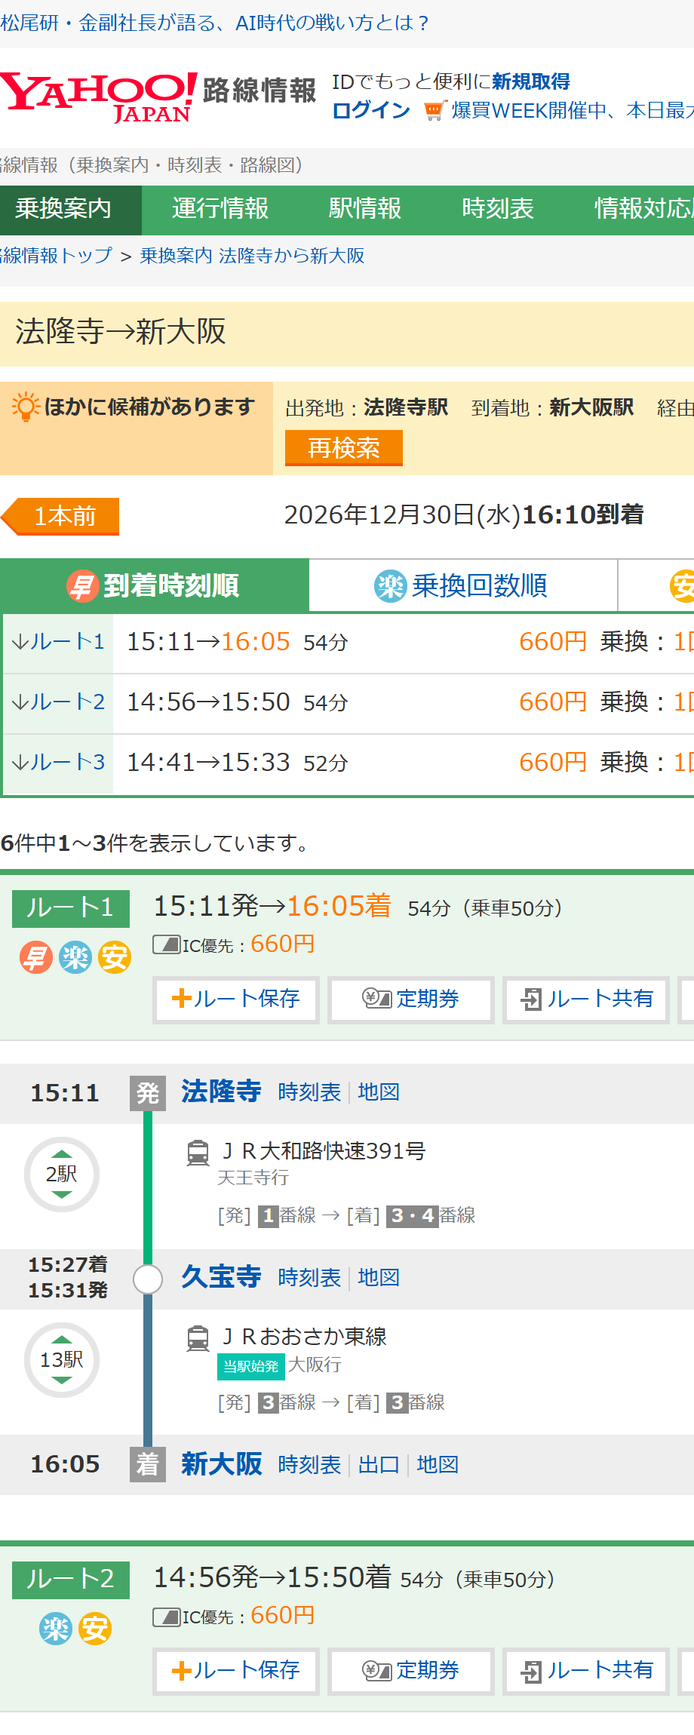
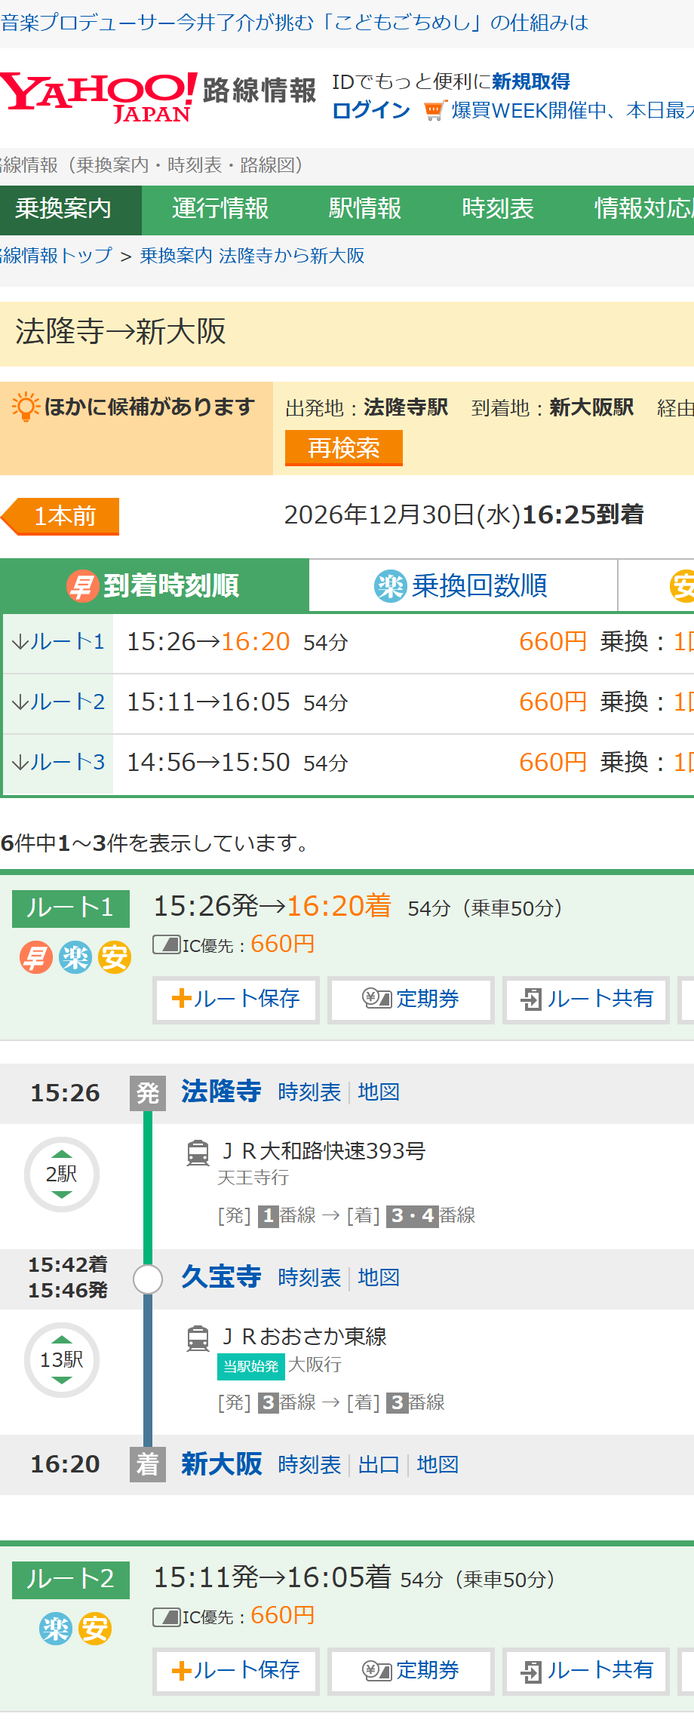
fix: 法隆寺15:26発➡新大阪16:20着に変更、予備/1本後表記とEX予約＋Suica案内を削除、キャッシュ防止追加

diff --git a/nara.html b/nara.html
@@ -3,6 +3,9 @@
 <head>
   <meta charset="UTF-8">
   <meta name="viewport" content="width=device-width, initial-scale=1.0, maximum-scale=1.0, user-scalable=no">
+  <meta http-equiv="Cache-Control" content="no-cache, no-store, must-revalidate">
+  <meta http-equiv="Pragma" content="no-cache">
+  <meta http-equiv="Expires" content="0">
   <title>京都・奈良 年末家族旅行 旅のしおり 2026</title>
   <style>
     :root {
@@ -281,24 +284,6 @@
     </a>
   </div>
 
-  <!-- 交通・きっぷ案内カード（EX予約＋Suica対応） -->
-  <div class="sec-card" style="background:#f0fdf4; border-color:#86efac;">
-    <div class="sec-header">
-      <h2 class="sec-title" style="color:#15803d;">📱 いつもの「EX予約 ＋ Suica」でOK！</h2>
-      <span class="sec-badge badge-green">交通案内</span>
-    </div>
-    <div style="font-size:12px; color:#14532d; line-height:1.6;">
-      難しい紙の切符は不要！普段お使いの**EX予約アプリ＋モバイルSuica/ICカード**だけで全て移動できます。<br><br>
-      ① <strong>新横浜 ➡ 京都：</strong> EX予約で新幹線指定席を購入 ➡ Suicaでピッと改札通過<br>
-      ② <strong>京都 ➡ 奈良 ➡ 法隆寺 ➡ 新大阪：</strong> 関西の在来線は全区間Suicaタッチで乗るだけ！<br>
-      ③ <strong>新大阪 ➡ 岡山：</strong> EX予約で山陽新幹線を購入 ➡ Suicaでピッと改札通過<br>
-      ④ <strong>岡山 ➡ 早島：</strong> JR瀬戸大橋線もSuicaタッチで乗車OK！<br>
-      <small style="color:#166534; display:block; margin-top:6px; background:#dcfce7; padding:6px 8px; border-radius:6px;">
-        💡 以前言っていた「通し乗車券ハック」は紙の切符でみどりの窓口に並ぶ必要があり手間がかかるため、<strong>いつものEX予約＋Suica利用が圧倒的に快適で便利</strong>です。
-      </small>
-    </div>
-  </div>
-
   <!-- 1日目タイムスケジュール -->
   <div class="sec-card">
     <div class="sec-header">
@@ -307,26 +292,21 @@
     </div>
 
     <div class="timeline-step">
-      <div class="step-time">07:45発（または07:49発）➡ 08:11〜08:18着</div>
-      <div class="step-title">東戸塚駅 ➡ 横浜駅 ➡ 新横浜駅（余裕たっぷりA案）</div>
+      <div class="step-time">07:45発 ➡ 08:11着</div>
+      <div class="step-title">東戸塚駅 ➡ 横浜駅 ➡ 新横浜駅</div>
       <div class="step-desc">
-        <strong>【平日ダイヤ（12/29標準）】</strong><br>
-        ・<strong>東戸塚 07:45発</strong>（JR横須賀線・千葉行）➡ <strong>横浜 07:53着</strong><br>
-        　↳ <strong>横浜 07:59発</strong>（JR横浜線直通・八王子行）➡ <strong>新横浜 08:11着</strong>（JR構内乗換6分・IC 341円）<br>
-        　↳ または <strong>横浜 08:02発</strong>（地下鉄ブルーライン・あざみ野行）➡ <strong>新横浜 08:14着</strong>（IC 451円）<br>
-        ・（1本後）<strong>東戸塚 07:49発</strong>（JR横須賀線・千葉行）➡ <strong>横浜 07:58着 / 08:07発</strong>（ブルーライン）➡ <strong>新横浜 08:18着</strong><br>
-        <small style="color:var(--muted);">※万が一12/29が土休日ダイヤ扱いの場合：東戸塚 07:40発 ➡ 横浜 07:48着 / 07:58発（ブルーライン）➡ 新横浜 08:10着（または東戸塚 07:50発 ➡ 横浜 07:58着 / 08:06発 ➡ 新横浜 08:17着）</small><br>
-        <a href="https://transit.yahoo.co.jp/search/result?from=%E6%9D%B1%E6%88%B8%E5%A1%9A&to=%E6%96%B0%E6%A8%AA%E6%B5%9C&y=2026&m=12&d=29&hh=08&m1=2&m2=5&type=4&ticket=ic&al=0&shin=0&ex=0&hb=0&lb=0&sr=0" target="_blank" class="step-link">🔗 Yahoo!乗換案内で時刻を確認</a>
+        ・<strong>東戸塚 07:45発</strong>（1番線：JR横須賀線・千葉行）➡ <strong>横浜 07:53着</strong>（10番線）<br>
+        ・<strong>横浜 07:59発</strong>（4番線：JR横浜線直通・八王子行）➡ <strong>新横浜 08:11着</strong>（6番線・IC 341円）<br>
+        <a href="https://transit.yahoo.co.jp/search/result?from=%E6%9D%B1%E6%88%B8%E5%A1%9A&to=%E6%96%B0%E6%A8%AA%E6%B5%9C&y=2026&m=12&d=29&hh=08&m1=1&m2=5&type=4&ticket=ic&al=0&shin=0&ex=0&hb=0&lb=0&sr=0" target="_blank" class="step-link">🔗 Yahoo!乗換案内（東戸塚➡新横浜）</a>
       </div>
     </div>
 
     <div class="timeline-step">
       <div class="step-time">08:43発 ➡ 10:39着（予約済）</div>
-      <div class="step-title">東海道新幹線 のぞみ333号（新横浜 ➡ 京都・EX予約）</div>
+      <div class="step-title">東海道新幹線 のぞみ333号（新横浜 ➡ 京都）</div>
       <div class="step-desc">
-        新横浜駅で朝ごはんを買って余裕を持って乗車（所要1時間56分）。<br>
-        京都駅10:39着後、八条口または中央口のコインロッカーにスーツケースを預けて身軽に行動！<br>
-        <small style="color:var(--muted);">※EX予約（1年前予約済）：座席番号は乗車1ヶ月前（11/29 8:00以降）に確定メール通知</small>
+        新横浜駅で朝ごはんを買って乗車（所要1時間56分）。<br>
+        京都駅10:39着後、八条口または中央口のコインロッカーにスーツケースを預けて身軽に行動！
       </div>
     </div>
 
@@ -357,8 +337,7 @@
       <div class="step-title">JR奈良線 みやこ路快速619号（京都 ➡ 奈良 直通）</div>
       <div class="step-desc">
         ・<strong>京都 13:34発</strong>（JRみやこ路快速619号・奈良行）➡ <strong>JR奈良 14:21着</strong>（所要47分・乗換0回・IC 720円）<br>
-        <small style="color:var(--muted);">※ランチをゆっくりとる場合は30分後の「京都 14:04発 ➡ JR奈良 14:51着」でもOK（昼間は平日・土休日同一ダイヤで毎時04分・34分発）</small><br>
-        <a href="https://transit.yahoo.co.jp/search/result?from=%E4%BA%AC%E9%83%BD&to=%E5%A5%88%E8%89%AF&y=2026&m=12&d=29&hh=13&m1=1&m2=5&type=1&ticket=ic&al=0&shin=0&ex=0&hb=0&lb=0&sr=0" target="_blank" class="step-link">🔗 Yahoo!乗換案内で時刻を確認</a>
+        <a href="https://transit.yahoo.co.jp/search/result?from=%E4%BA%AC%E9%83%BD&to=%E5%A5%88%E8%89%AF&y=2026&m=12&d=29&hh=13&m1=1&m2=5&type=1&ticket=ic&al=0&shin=0&ex=0&hb=0&lb=0&sr=0" target="_blank" class="step-link">🔗 Yahoo!乗換案内（京都➡奈良）</a>
       </div>
     </div>
 
@@ -424,11 +403,10 @@
     </div>
 
     <div class="timeline-step purple">
-      <div class="step-time" style="color:var(--purple);">11:45発（または12:00発）➡ 15:00 ⭐ 世界最古の木造建築 ＆ ポケふた</div>
+      <div class="step-time" style="color:var(--purple);">11:45発 ➡ 15:15 ⭐ 世界最古の木造建築 ＆ ポケふた</div>
       <div class="step-title">JR奈良駅 ➡ 法隆寺駅 ➡ ポケふた5枚 ➡ 世界遺産 法隆寺</div>
       <div class="step-desc">
         ・<strong>JR奈良 11:45発</strong>（JR大和路快速365号・天王寺行）➡ <strong>法隆寺 11:56着</strong>（所要11分・IC 240円）<br>
-        　<small style="color:var(--muted);">※15分間隔で運行（12:00発 ➡ 12:11着 / 12:15発 ➡ 12:26着）</small><br>
         ・法隆寺駅ロッカーに荷物を預ける。<br>
         ・**奈良県唯一のポケふた全5枚**は、法隆寺駅〜法隆寺の参道沿い（約1.5km）に一直線に並んでいます！ドータクン、シキジカ、エンテイなどのマンホールを探しながら散策。<br>
         ・聖徳太子ゆかりの**世界最古の木造建築・法隆寺（五重塔・金堂・大宝蔵院・百済観音）**を見学（冬は16:30閉門）。<br>
@@ -439,14 +417,12 @@
     </div>
 
     <div class="timeline-step">
-      <div class="step-time">15:11発 ➡ 16:05新大阪着 / 16:41発 ➡ 17:25岡山着（予約済）</div>
-      <div class="step-title">法隆寺 ➡ 久宝寺 ➡ 新大阪 ➡ のぞみ39号で岡山へ（余裕A案）</div>
+      <div class="step-time">15:26発 ➡ 16:20新大阪着 / 16:41発 ➡ 17:25岡山着（予約済）</div>
+      <div class="step-title">法隆寺 ➡ 久宝寺 ➡ 新大阪 ➡ のぞみ39号で岡山へ</div>
       <div class="step-desc">
-        ・<strong>法隆寺 15:11発</strong>（JR大和路快速391号・天王寺行）➡ <strong>久宝寺 15:27着</strong><br>
-        ・<strong>久宝寺 15:31発</strong>（向かい側ホーム対面乗換4分：JRおおさか東線・大阪行）➡ <strong>新大阪 16:05着</strong>（IC 660円）<br>
-        　<small style="color:var(--muted);">※1本後のB案：法隆寺 15:26発 ➡ 久宝寺 15:42着/15:46発 ➡ 新大阪 16:20着</small><br>
-        ・新大阪駅でお土産購入・トイレ休憩（36分余裕）<br>
-        ・<strong>新大阪 16:41発</strong>（山陽新幹線 <strong>のぞみ39号</strong>・EX予約済）➡ <strong>岡山 17:25着</strong>（所要44分）<br>
+        ・<strong>法隆寺 15:26発</strong>（1番線：JR大和路快速393号・天王寺行）➡ <strong>久宝寺 15:42着</strong>（3・4番線）<br>
+        ・<strong>久宝寺 15:46発</strong>（3番線・当駅始発：JRおおさか東線・大阪行）➡ <strong>新大阪 16:20着</strong>（3番線・IC 660円）<br>
+        ・<strong>新大阪 16:41発</strong>（山陽新幹線 <strong>のぞみ39号</strong>・予約済）➡ <strong>岡山 17:25着</strong>（所要44分）<br>
         <a href="https://transit.yahoo.co.jp/search/result?from=%E6%B3%95%E9%9A%86%E5%AF%BA&to=%E6%96%B0%E5%A4%A7%E9%98%AA&y=2026&m=12&d=30&hh=16&m1=2&m2=5&type=4&ticket=ic&al=0&shin=0&ex=0&hb=0&lb=0&sr=0&via=%E4%B9%85%E5%AE%9D%E5%AF%BA" target="_blank" class="step-link">🔗 Yahoo!乗換案内（法隆寺➡新大阪）</a>
       </div>
     </div>
@@ -455,38 +431,36 @@
       <div class="step-time" style="color:var(--green);">17:42発 ➡ 17:52早島着 🎉</div>
       <div class="step-title">岡山駅 ➡ 早島のご実家に無事到着！</div>
       <div class="step-desc">
-        ・<strong>岡山 17:42発</strong>（JR快速マリンライナー51号・高松行・8番のりば）➡ <strong>早島 17:52着</strong>（所要10分・IC 240円）<br>
-        ・（3分後の普通列車）<strong>岡山 17:45発</strong>（JR瀬戸大橋線・児島行）➡ <strong>早島 18:02着</strong>（所要17分）<br>
-        ・（予備）<strong>岡山 18:15発</strong>（JR宇野みなと線・宇野行）➡ <strong>早島 18:32着</strong><br>
+        ・<strong>岡山 17:42発</strong>（8番線：JR快速マリンライナー51号・高松行）➡ <strong>早島 17:52着</strong>（所要10分・IC 240円）<br>
         <a href="https://transit.yahoo.co.jp/search/result?from=%E5%B2%A1%E5%B1%B1&to=%E6%97%A9%E5%B3%B6&y=2026&m=12&d=30&hh=17&m1=3&m2=5&type=1&ticket=ic&al=0&shin=0&ex=0&hb=0&lb=0&sr=0" target="_blank" class="step-link">🔗 Yahoo!乗換案内（岡山➡早島）</a>
       </div>
     </div>
 
     <!-- 時刻表スクリーンショット証跡（折りたたみ） -->
-    <details style="margin-top:12px; background:#f8fafc; border:1.5px solid #cbd5e1; border-radius:12px; padding:10px;">
-      <summary style="font-size:12.5px; font-weight:800; color:#0f172a; cursor:pointer;">
+    <details style="margin-top:12px; background:#eff6ff; border:2px solid #0284c7; border-radius:12px; padding:12px;">
+      <summary style="font-size:13px; font-weight:800; color:#0369a1; cursor:pointer;">
         📸 Yahoo!乗換案内 スクリーンショット証跡を見る（全5区間・番線付き）
       </summary>
       <div style="margin-top:10px; display:flex; flex-direction:column; gap:12px;">
         <div>
           <div style="font-size:11.5px; font-weight:800; color:#0369a1; margin-bottom:4px;">① 12/29 東戸塚 07:45発 ➡ 新横浜 08:11着（1番線➡10番線 / 4番線➡6番線）</div>
-          <img src="https://monolith-sys.github.io/izu-trip-2026/nara2026/proofs/proof_1_higashitotsuka_shinyokohama.png" alt="東戸塚から新横浜" style="width:100%; border-radius:8px; border:1px solid #cbd5e1;">
+          <img src="https://monolith-sys.github.io/izu-trip-2026/nara2026/proofs/proof_1_higashitotsuka_shinyokohama.png?v=2" alt="東戸塚から新横浜" style="width:100%; border-radius:8px; border:1px solid #cbd5e1;">
         </div>
         <div>
           <div style="font-size:11.5px; font-weight:800; color:#0369a1; margin-bottom:4px;">② 12/29 京都 13:34発 ➡ 奈良 14:21着（みやこ路快速619号）</div>
-          <img src="https://monolith-sys.github.io/izu-trip-2026/nara2026/proofs/proof_2_kyoto_nara.png" alt="京都から奈良" style="width:100%; border-radius:8px; border:1px solid #cbd5e1;">
+          <img src="https://monolith-sys.github.io/izu-trip-2026/nara2026/proofs/proof_2_kyoto_nara.png?v=2" alt="京都から奈良" style="width:100%; border-radius:8px; border:1px solid #cbd5e1;">
         </div>
         <div>
           <div style="font-size:11.5px; font-weight:800; color:#0369a1; margin-bottom:4px;">③ 12/30 奈良 11:45発 ➡ 法隆寺 11:56着（大和路快速365号）</div>
-          <img src="https://monolith-sys.github.io/izu-trip-2026/nara2026/proofs/proof_3_nara_horyuji.png" alt="奈良から法隆寺" style="width:100%; border-radius:8px; border:1px solid #cbd5e1;">
+          <img src="https://monolith-sys.github.io/izu-trip-2026/nara2026/proofs/proof_3_nara_horyuji.png?v=2" alt="奈良から法隆寺" style="width:100%; border-radius:8px; border:1px solid #cbd5e1;">
         </div>
         <div>
-          <div style="font-size:11.5px; font-weight:800; color:#0369a1; margin-bottom:4px;">④ 12/30 法隆寺 15:11発 ➡ 久宝寺 15:27着/15:31発 ➡ 新大阪 16:05着</div>
-          <img src="https://monolith-sys.github.io/izu-trip-2026/nara2026/proofs/proof_4_horyuji_shinosaka.png" alt="法隆寺から新大阪" style="width:100%; border-radius:8px; border:1px solid #cbd5e1;">
+          <div style="font-size:11.5px; font-weight:800; color:#0369a1; margin-bottom:4px;">④ 12/30 法隆寺 15:26発 ➡ 久宝寺 15:42着/15:46発 ➡ 新大阪 16:20着</div>
+          <img src="https://monolith-sys.github.io/izu-trip-2026/nara2026/proofs/proof_4_horyuji_shinosaka.png?v=2" alt="法隆寺から新大阪" style="width:100%; border-radius:8px; border:1px solid #cbd5e1;">
         </div>
         <div>
           <div style="font-size:11.5px; font-weight:800; color:#0369a1; margin-bottom:4px;">⑤ 12/30 岡山 17:42発 ➡ 早島 17:52着（マリンライナー51号）</div>
-          <img src="https://monolith-sys.github.io/izu-trip-2026/nara2026/proofs/proof_5_okayama_hayashima.png" alt="岡山から早島" style="width:100%; border-radius:8px; border:1px solid #cbd5e1;">
+          <img src="https://monolith-sys.github.io/izu-trip-2026/nara2026/proofs/proof_5_okayama_hayashima.png?v=2" alt="岡山から早島" style="width:100%; border-radius:8px; border:1px solid #cbd5e1;">
         </div>
       </div>
     </details>
@@ -668,8 +642,7 @@ ${pageUrl}
 
 🚆【1日目 12/29(火)】
 ・東戸塚 07:45発(横須賀線) ➡ 横浜 07:53着/07:59発(JR横浜線直通) ➡ 新横浜 08:11着
-　(※ブルーライン利用なら 東戸塚07:49発 ➡ 横浜07:58着/08:07発 ➡ 新横浜08:18着)
-・新横浜 08:43発 ➡ 京都 10:39着（のぞみ333号・EX予約済）
+・新横浜 08:43発 ➡ 京都 10:39着（のぞみ333号・予約済）
 ・京都駅ロッカーに荷物を預けて西本願寺へ
 ・11:30〜12:00 西本願寺お坊さん無料境内ガイドツアー「お西さんを知ろう！」第2回参加
 ・東本願寺の前を通りつつ京都駅へ戻ってランチ＆荷物受取
@@ -681,15 +654,12 @@ ${pageUrl}
 🦌【2日目 12/30(水)】
 ・07:00〜 ホテル名物の海鮮丼朝食バイキング
 ・08:00〜09:30 東大寺 大仏殿 ＆ 二月堂（冬期8時開門！朝一番で大仏さま参拝＆高台の舞台から大仏殿を一望！）
-・ならまち散策・早めランチ ➡ ホテルで荷物ピックアップ
-・JR奈良 11:45発（JR大和路快速365号）➡ 法隆寺 11:56着（または12:00発➡12:11着）
+・ならまち散策・お土産選び＆早めランチ ➡ ホテルで荷物ピックアップ
+・JR奈良 11:45発（JR大和路快速365号）➡ 法隆寺 11:56着
 ・ポケふた全5枚を探しながら参道散策 ＆ 世界最古の木造建築・法隆寺（聖徳太子・五重塔）見学！
-・法隆寺 15:11発（大和路快速391号）➡ 久宝寺 15:27着/15:31発（おおさか東線）➡ 新大阪 16:05着
-・新大阪 16:41発 ➡ 岡山 17:25着（のぞみ39号・EX予約済）
-・岡山 17:42発（快速マリンライナー51号）➡ 早島 17:52着（普通列車なら17:45発➡18:02着）
-
-🚆【きっぷ・移動】
-新幹線はEX予約済＋在来線（横浜・京都・奈良・大阪・岡山）はすべてSuicaタッチでOK！`;
+・法隆寺 15:26発（大和路快速393号）➡ 久宝寺 15:42着/15:46発（おおさか東線）➡ 新大阪 16:20着
+・新大阪 16:41発 ➡ 岡山 17:25着（のぞみ39号・予約済）
+・岡山 17:42発（快速マリンライナー51号）➡ 早島 17:52着`;
     }
 
     function shareToLine() {

diff --git a/nara2026/index.html b/nara2026/index.html
@@ -3,6 +3,9 @@
 <head>
   <meta charset="UTF-8">
   <meta name="viewport" content="width=device-width, initial-scale=1.0, maximum-scale=1.0, user-scalable=no">
+  <meta http-equiv="Cache-Control" content="no-cache, no-store, must-revalidate">
+  <meta http-equiv="Pragma" content="no-cache">
+  <meta http-equiv="Expires" content="0">
   <title>京都・奈良 年末家族旅行 旅のしおり 2026</title>
   <style>
     :root {
@@ -281,24 +284,6 @@
     </a>
   </div>
 
-  <!-- 交通・きっぷ案内カード（EX予約＋Suica対応） -->
-  <div class="sec-card" style="background:#f0fdf4; border-color:#86efac;">
-    <div class="sec-header">
-      <h2 class="sec-title" style="color:#15803d;">📱 いつもの「EX予約 ＋ Suica」でOK！</h2>
-      <span class="sec-badge badge-green">交通案内</span>
-    </div>
-    <div style="font-size:12px; color:#14532d; line-height:1.6;">
-      難しい紙の切符は不要！普段お使いの**EX予約アプリ＋モバイルSuica/ICカード**だけで全て移動できます。<br><br>
-      ① <strong>新横浜 ➡ 京都：</strong> EX予約で新幹線指定席を購入 ➡ Suicaでピッと改札通過<br>
-      ② <strong>京都 ➡ 奈良 ➡ 法隆寺 ➡ 新大阪：</strong> 関西の在来線は全区間Suicaタッチで乗るだけ！<br>
-      ③ <strong>新大阪 ➡ 岡山：</strong> EX予約で山陽新幹線を購入 ➡ Suicaでピッと改札通過<br>
-      ④ <strong>岡山 ➡ 早島：</strong> JR瀬戸大橋線もSuicaタッチで乗車OK！<br>
-      <small style="color:#166534; display:block; margin-top:6px; background:#dcfce7; padding:6px 8px; border-radius:6px;">
-        💡 以前言っていた「通し乗車券ハック」は紙の切符でみどりの窓口に並ぶ必要があり手間がかかるため、<strong>いつものEX予約＋Suica利用が圧倒的に快適で便利</strong>です。
-      </small>
-    </div>
-  </div>
-
   <!-- 1日目タイムスケジュール -->
   <div class="sec-card">
     <div class="sec-header">
@@ -307,26 +292,21 @@
     </div>
 
     <div class="timeline-step">
-      <div class="step-time">07:45発（または07:49発）➡ 08:11〜08:18着</div>
-      <div class="step-title">東戸塚駅 ➡ 横浜駅 ➡ 新横浜駅（余裕たっぷりA案）</div>
+      <div class="step-time">07:45発 ➡ 08:11着</div>
+      <div class="step-title">東戸塚駅 ➡ 横浜駅 ➡ 新横浜駅</div>
       <div class="step-desc">
-        <strong>【平日ダイヤ（12/29標準）】</strong><br>
-        ・<strong>東戸塚 07:45発</strong>（JR横須賀線・千葉行）➡ <strong>横浜 07:53着</strong><br>
-        　↳ <strong>横浜 07:59発</strong>（JR横浜線直通・八王子行）➡ <strong>新横浜 08:11着</strong>（JR構内乗換6分・IC 341円）<br>
-        　↳ または <strong>横浜 08:02発</strong>（地下鉄ブルーライン・あざみ野行）➡ <strong>新横浜 08:14着</strong>（IC 451円）<br>
-        ・（1本後）<strong>東戸塚 07:49発</strong>（JR横須賀線・千葉行）➡ <strong>横浜 07:58着 / 08:07発</strong>（ブルーライン）➡ <strong>新横浜 08:18着</strong><br>
-        <small style="color:var(--muted);">※万が一12/29が土休日ダイヤ扱いの場合：東戸塚 07:40発 ➡ 横浜 07:48着 / 07:58発（ブルーライン）➡ 新横浜 08:10着（または東戸塚 07:50発 ➡ 横浜 07:58着 / 08:06発 ➡ 新横浜 08:17着）</small><br>
-        <a href="https://transit.yahoo.co.jp/search/result?from=%E6%9D%B1%E6%88%B8%E5%A1%9A&to=%E6%96%B0%E6%A8%AA%E6%B5%9C&y=2026&m=12&d=29&hh=08&m1=2&m2=5&type=4&ticket=ic&al=0&shin=0&ex=0&hb=0&lb=0&sr=0" target="_blank" class="step-link">🔗 Yahoo!乗換案内で時刻を確認</a>
+        ・<strong>東戸塚 07:45発</strong>（1番線：JR横須賀線・千葉行）➡ <strong>横浜 07:53着</strong>（10番線）<br>
+        ・<strong>横浜 07:59発</strong>（4番線：JR横浜線直通・八王子行）➡ <strong>新横浜 08:11着</strong>（6番線・IC 341円）<br>
+        <a href="https://transit.yahoo.co.jp/search/result?from=%E6%9D%B1%E6%88%B8%E5%A1%9A&to=%E6%96%B0%E6%A8%AA%E6%B5%9C&y=2026&m=12&d=29&hh=08&m1=1&m2=5&type=4&ticket=ic&al=0&shin=0&ex=0&hb=0&lb=0&sr=0" target="_blank" class="step-link">🔗 Yahoo!乗換案内（東戸塚➡新横浜）</a>
       </div>
     </div>
 
     <div class="timeline-step">
       <div class="step-time">08:43発 ➡ 10:39着（予約済）</div>
-      <div class="step-title">東海道新幹線 のぞみ333号（新横浜 ➡ 京都・EX予約）</div>
+      <div class="step-title">東海道新幹線 のぞみ333号（新横浜 ➡ 京都）</div>
       <div class="step-desc">
-        新横浜駅で朝ごはんを買って余裕を持って乗車（所要1時間56分）。<br>
-        京都駅10:39着後、八条口または中央口のコインロッカーにスーツケースを預けて身軽に行動！<br>
-        <small style="color:var(--muted);">※EX予約（1年前予約済）：座席番号は乗車1ヶ月前（11/29 8:00以降）に確定メール通知</small>
+        新横浜駅で朝ごはんを買って乗車（所要1時間56分）。<br>
+        京都駅10:39着後、八条口または中央口のコインロッカーにスーツケースを預けて身軽に行動！
       </div>
     </div>
 
@@ -357,8 +337,7 @@
       <div class="step-title">JR奈良線 みやこ路快速619号（京都 ➡ 奈良 直通）</div>
       <div class="step-desc">
         ・<strong>京都 13:34発</strong>（JRみやこ路快速619号・奈良行）➡ <strong>JR奈良 14:21着</strong>（所要47分・乗換0回・IC 720円）<br>
-        <small style="color:var(--muted);">※ランチをゆっくりとる場合は30分後の「京都 14:04発 ➡ JR奈良 14:51着」でもOK（昼間は平日・土休日同一ダイヤで毎時04分・34分発）</small><br>
-        <a href="https://transit.yahoo.co.jp/search/result?from=%E4%BA%AC%E9%83%BD&to=%E5%A5%88%E8%89%AF&y=2026&m=12&d=29&hh=13&m1=1&m2=5&type=1&ticket=ic&al=0&shin=0&ex=0&hb=0&lb=0&sr=0" target="_blank" class="step-link">🔗 Yahoo!乗換案内で時刻を確認</a>
+        <a href="https://transit.yahoo.co.jp/search/result?from=%E4%BA%AC%E9%83%BD&to=%E5%A5%88%E8%89%AF&y=2026&m=12&d=29&hh=13&m1=1&m2=5&type=1&ticket=ic&al=0&shin=0&ex=0&hb=0&lb=0&sr=0" target="_blank" class="step-link">🔗 Yahoo!乗換案内（京都➡奈良）</a>
       </div>
     </div>
 
@@ -424,11 +403,10 @@
     </div>
 
     <div class="timeline-step purple">
-      <div class="step-time" style="color:var(--purple);">11:45発（または12:00発）➡ 15:00 ⭐ 世界最古の木造建築 ＆ ポケふた</div>
+      <div class="step-time" style="color:var(--purple);">11:45発 ➡ 15:15 ⭐ 世界最古の木造建築 ＆ ポケふた</div>
       <div class="step-title">JR奈良駅 ➡ 法隆寺駅 ➡ ポケふた5枚 ➡ 世界遺産 法隆寺</div>
       <div class="step-desc">
         ・<strong>JR奈良 11:45発</strong>（JR大和路快速365号・天王寺行）➡ <strong>法隆寺 11:56着</strong>（所要11分・IC 240円）<br>
-        　<small style="color:var(--muted);">※15分間隔で運行（12:00発 ➡ 12:11着 / 12:15発 ➡ 12:26着）</small><br>
         ・法隆寺駅ロッカーに荷物を預ける。<br>
         ・**奈良県唯一のポケふた全5枚**は、法隆寺駅〜法隆寺の参道沿い（約1.5km）に一直線に並んでいます！ドータクン、シキジカ、エンテイなどのマンホールを探しながら散策。<br>
         ・聖徳太子ゆかりの**世界最古の木造建築・法隆寺（五重塔・金堂・大宝蔵院・百済観音）**を見学（冬は16:30閉門）。<br>
@@ -439,14 +417,12 @@
     </div>
 
     <div class="timeline-step">
-      <div class="step-time">15:11発 ➡ 16:05新大阪着 / 16:41発 ➡ 17:25岡山着（予約済）</div>
-      <div class="step-title">法隆寺 ➡ 久宝寺 ➡ 新大阪 ➡ のぞみ39号で岡山へ（余裕A案）</div>
+      <div class="step-time">15:26発 ➡ 16:20新大阪着 / 16:41発 ➡ 17:25岡山着（予約済）</div>
+      <div class="step-title">法隆寺 ➡ 久宝寺 ➡ 新大阪 ➡ のぞみ39号で岡山へ</div>
       <div class="step-desc">
-        ・<strong>法隆寺 15:11発</strong>（JR大和路快速391号・天王寺行）➡ <strong>久宝寺 15:27着</strong><br>
-        ・<strong>久宝寺 15:31発</strong>（向かい側ホーム対面乗換4分：JRおおさか東線・大阪行）➡ <strong>新大阪 16:05着</strong>（IC 660円）<br>
-        　<small style="color:var(--muted);">※1本後のB案：法隆寺 15:26発 ➡ 久宝寺 15:42着/15:46発 ➡ 新大阪 16:20着</small><br>
-        ・新大阪駅でお土産購入・トイレ休憩（36分余裕）<br>
-        ・<strong>新大阪 16:41発</strong>（山陽新幹線 <strong>のぞみ39号</strong>・EX予約済）➡ <strong>岡山 17:25着</strong>（所要44分）<br>
+        ・<strong>法隆寺 15:26発</strong>（1番線：JR大和路快速393号・天王寺行）➡ <strong>久宝寺 15:42着</strong>（3・4番線）<br>
+        ・<strong>久宝寺 15:46発</strong>（3番線・当駅始発：JRおおさか東線・大阪行）➡ <strong>新大阪 16:20着</strong>（3番線・IC 660円）<br>
+        ・<strong>新大阪 16:41発</strong>（山陽新幹線 <strong>のぞみ39号</strong>・予約済）➡ <strong>岡山 17:25着</strong>（所要44分）<br>
         <a href="https://transit.yahoo.co.jp/search/result?from=%E6%B3%95%E9%9A%86%E5%AF%BA&to=%E6%96%B0%E5%A4%A7%E9%98%AA&y=2026&m=12&d=30&hh=16&m1=2&m2=5&type=4&ticket=ic&al=0&shin=0&ex=0&hb=0&lb=0&sr=0&via=%E4%B9%85%E5%AE%9D%E5%AF%BA" target="_blank" class="step-link">🔗 Yahoo!乗換案内（法隆寺➡新大阪）</a>
       </div>
     </div>
@@ -455,38 +431,36 @@
       <div class="step-time" style="color:var(--green);">17:42発 ➡ 17:52早島着 🎉</div>
       <div class="step-title">岡山駅 ➡ 早島のご実家に無事到着！</div>
       <div class="step-desc">
-        ・<strong>岡山 17:42発</strong>（JR快速マリンライナー51号・高松行・8番のりば）➡ <strong>早島 17:52着</strong>（所要10分・IC 240円）<br>
-        ・（3分後の普通列車）<strong>岡山 17:45発</strong>（JR瀬戸大橋線・児島行）➡ <strong>早島 18:02着</strong>（所要17分）<br>
-        ・（予備）<strong>岡山 18:15発</strong>（JR宇野みなと線・宇野行）➡ <strong>早島 18:32着</strong><br>
+        ・<strong>岡山 17:42発</strong>（8番線：JR快速マリンライナー51号・高松行）➡ <strong>早島 17:52着</strong>（所要10分・IC 240円）<br>
         <a href="https://transit.yahoo.co.jp/search/result?from=%E5%B2%A1%E5%B1%B1&to=%E6%97%A9%E5%B3%B6&y=2026&m=12&d=30&hh=17&m1=3&m2=5&type=1&ticket=ic&al=0&shin=0&ex=0&hb=0&lb=0&sr=0" target="_blank" class="step-link">🔗 Yahoo!乗換案内（岡山➡早島）</a>
       </div>
     </div>
 
     <!-- 時刻表スクリーンショット証跡（折りたたみ） -->
-    <details style="margin-top:12px; background:#f8fafc; border:1.5px solid #cbd5e1; border-radius:12px; padding:10px;">
-      <summary style="font-size:12.5px; font-weight:800; color:#0f172a; cursor:pointer;">
+    <details style="margin-top:12px; background:#eff6ff; border:2px solid #0284c7; border-radius:12px; padding:12px;">
+      <summary style="font-size:13px; font-weight:800; color:#0369a1; cursor:pointer;">
         📸 Yahoo!乗換案内 スクリーンショット証跡を見る（全5区間・番線付き）
       </summary>
       <div style="margin-top:10px; display:flex; flex-direction:column; gap:12px;">
         <div>
           <div style="font-size:11.5px; font-weight:800; color:#0369a1; margin-bottom:4px;">① 12/29 東戸塚 07:45発 ➡ 新横浜 08:11着（1番線➡10番線 / 4番線➡6番線）</div>
-          <img src="https://monolith-sys.github.io/izu-trip-2026/nara2026/proofs/proof_1_higashitotsuka_shinyokohama.png" alt="東戸塚から新横浜" style="width:100%; border-radius:8px; border:1px solid #cbd5e1;">
+          <img src="https://monolith-sys.github.io/izu-trip-2026/nara2026/proofs/proof_1_higashitotsuka_shinyokohama.png?v=2" alt="東戸塚から新横浜" style="width:100%; border-radius:8px; border:1px solid #cbd5e1;">
         </div>
         <div>
           <div style="font-size:11.5px; font-weight:800; color:#0369a1; margin-bottom:4px;">② 12/29 京都 13:34発 ➡ 奈良 14:21着（みやこ路快速619号）</div>
-          <img src="https://monolith-sys.github.io/izu-trip-2026/nara2026/proofs/proof_2_kyoto_nara.png" alt="京都から奈良" style="width:100%; border-radius:8px; border:1px solid #cbd5e1;">
+          <img src="https://monolith-sys.github.io/izu-trip-2026/nara2026/proofs/proof_2_kyoto_nara.png?v=2" alt="京都から奈良" style="width:100%; border-radius:8px; border:1px solid #cbd5e1;">
         </div>
         <div>
           <div style="font-size:11.5px; font-weight:800; color:#0369a1; margin-bottom:4px;">③ 12/30 奈良 11:45発 ➡ 法隆寺 11:56着（大和路快速365号）</div>
-          <img src="https://monolith-sys.github.io/izu-trip-2026/nara2026/proofs/proof_3_nara_horyuji.png" alt="奈良から法隆寺" style="width:100%; border-radius:8px; border:1px solid #cbd5e1;">
+          <img src="https://monolith-sys.github.io/izu-trip-2026/nara2026/proofs/proof_3_nara_horyuji.png?v=2" alt="奈良から法隆寺" style="width:100%; border-radius:8px; border:1px solid #cbd5e1;">
         </div>
         <div>
-          <div style="font-size:11.5px; font-weight:800; color:#0369a1; margin-bottom:4px;">④ 12/30 法隆寺 15:11発 ➡ 久宝寺 15:27着/15:31発 ➡ 新大阪 16:05着</div>
-          <img src="https://monolith-sys.github.io/izu-trip-2026/nara2026/proofs/proof_4_horyuji_shinosaka.png" alt="法隆寺から新大阪" style="width:100%; border-radius:8px; border:1px solid #cbd5e1;">
+          <div style="font-size:11.5px; font-weight:800; color:#0369a1; margin-bottom:4px;">④ 12/30 法隆寺 15:26発 ➡ 久宝寺 15:42着/15:46発 ➡ 新大阪 16:20着</div>
+          <img src="https://monolith-sys.github.io/izu-trip-2026/nara2026/proofs/proof_4_horyuji_shinosaka.png?v=2" alt="法隆寺から新大阪" style="width:100%; border-radius:8px; border:1px solid #cbd5e1;">
         </div>
         <div>
           <div style="font-size:11.5px; font-weight:800; color:#0369a1; margin-bottom:4px;">⑤ 12/30 岡山 17:42発 ➡ 早島 17:52着（マリンライナー51号）</div>
-          <img src="https://monolith-sys.github.io/izu-trip-2026/nara2026/proofs/proof_5_okayama_hayashima.png" alt="岡山から早島" style="width:100%; border-radius:8px; border:1px solid #cbd5e1;">
+          <img src="https://monolith-sys.github.io/izu-trip-2026/nara2026/proofs/proof_5_okayama_hayashima.png?v=2" alt="岡山から早島" style="width:100%; border-radius:8px; border:1px solid #cbd5e1;">
         </div>
       </div>
     </details>
@@ -668,8 +642,7 @@ ${pageUrl}
 
 🚆【1日目 12/29(火)】
 ・東戸塚 07:45発(横須賀線) ➡ 横浜 07:53着/07:59発(JR横浜線直通) ➡ 新横浜 08:11着
-　(※ブルーライン利用なら 東戸塚07:49発 ➡ 横浜07:58着/08:07発 ➡ 新横浜08:18着)
-・新横浜 08:43発 ➡ 京都 10:39着（のぞみ333号・EX予約済）
+・新横浜 08:43発 ➡ 京都 10:39着（のぞみ333号・予約済）
 ・京都駅ロッカーに荷物を預けて西本願寺へ
 ・11:30〜12:00 西本願寺お坊さん無料境内ガイドツアー「お西さんを知ろう！」第2回参加
 ・東本願寺の前を通りつつ京都駅へ戻ってランチ＆荷物受取
@@ -681,15 +654,12 @@ ${pageUrl}
 🦌【2日目 12/30(水)】
 ・07:00〜 ホテル名物の海鮮丼朝食バイキング
 ・08:00〜09:30 東大寺 大仏殿 ＆ 二月堂（冬期8時開門！朝一番で大仏さま参拝＆高台の舞台から大仏殿を一望！）
-・ならまち散策・早めランチ ➡ ホテルで荷物ピックアップ
-・JR奈良 11:45発（JR大和路快速365号）➡ 法隆寺 11:56着（または12:00発➡12:11着）
+・ならまち散策・お土産選び＆早めランチ ➡ ホテルで荷物ピックアップ
+・JR奈良 11:45発（JR大和路快速365号）➡ 法隆寺 11:56着
 ・ポケふた全5枚を探しながら参道散策 ＆ 世界最古の木造建築・法隆寺（聖徳太子・五重塔）見学！
-・法隆寺 15:11発（大和路快速391号）➡ 久宝寺 15:27着/15:31発（おおさか東線）➡ 新大阪 16:05着
-・新大阪 16:41発 ➡ 岡山 17:25着（のぞみ39号・EX予約済）
-・岡山 17:42発（快速マリンライナー51号）➡ 早島 17:52着（普通列車なら17:45発➡18:02着）
-
-🚆【きっぷ・移動】
-新幹線はEX予約済＋在来線（横浜・京都・奈良・大阪・岡山）はすべてSuicaタッチでOK！`;
+・法隆寺 15:26発（大和路快速393号）➡ 久宝寺 15:42着/15:46発（おおさか東線）➡ 新大阪 16:20着
+・新大阪 16:41発 ➡ 岡山 17:25着（のぞみ39号・予約済）
+・岡山 17:42発（快速マリンライナー51号）➡ 早島 17:52着`;
     }
 
     function shareToLine() {
